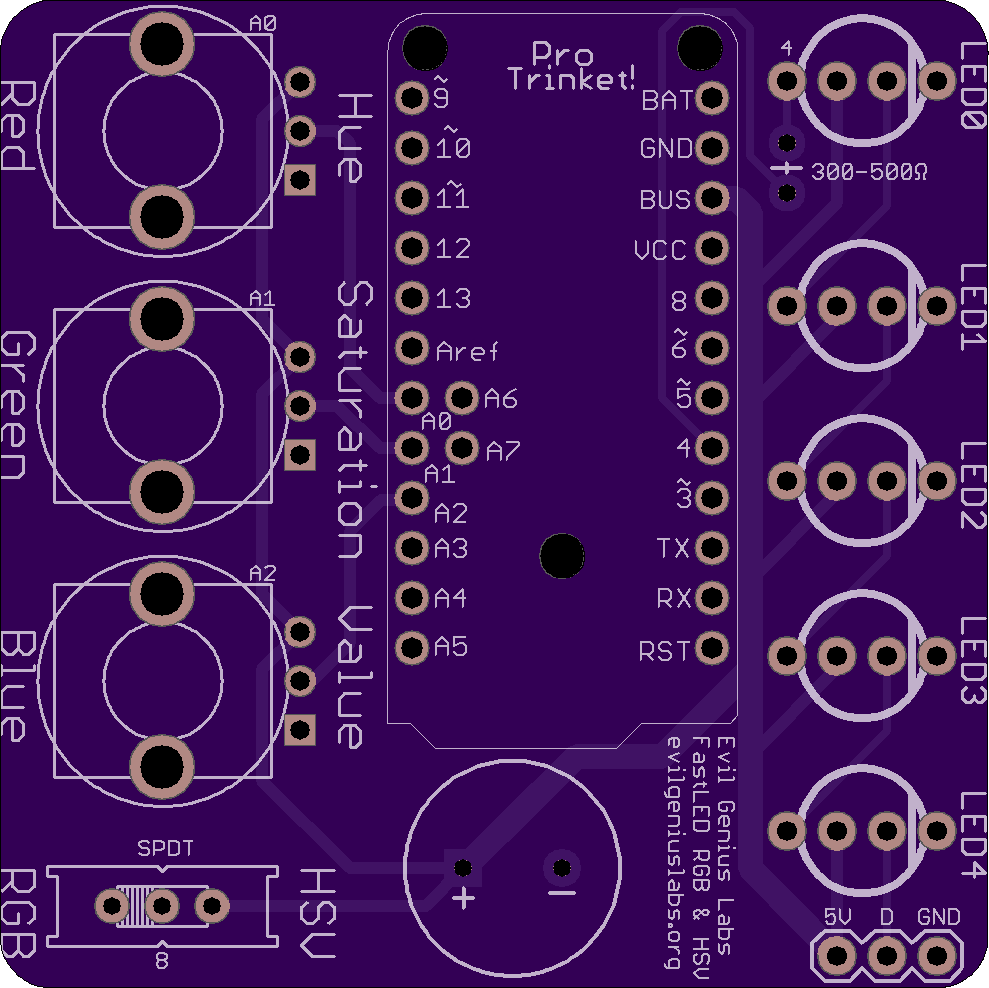
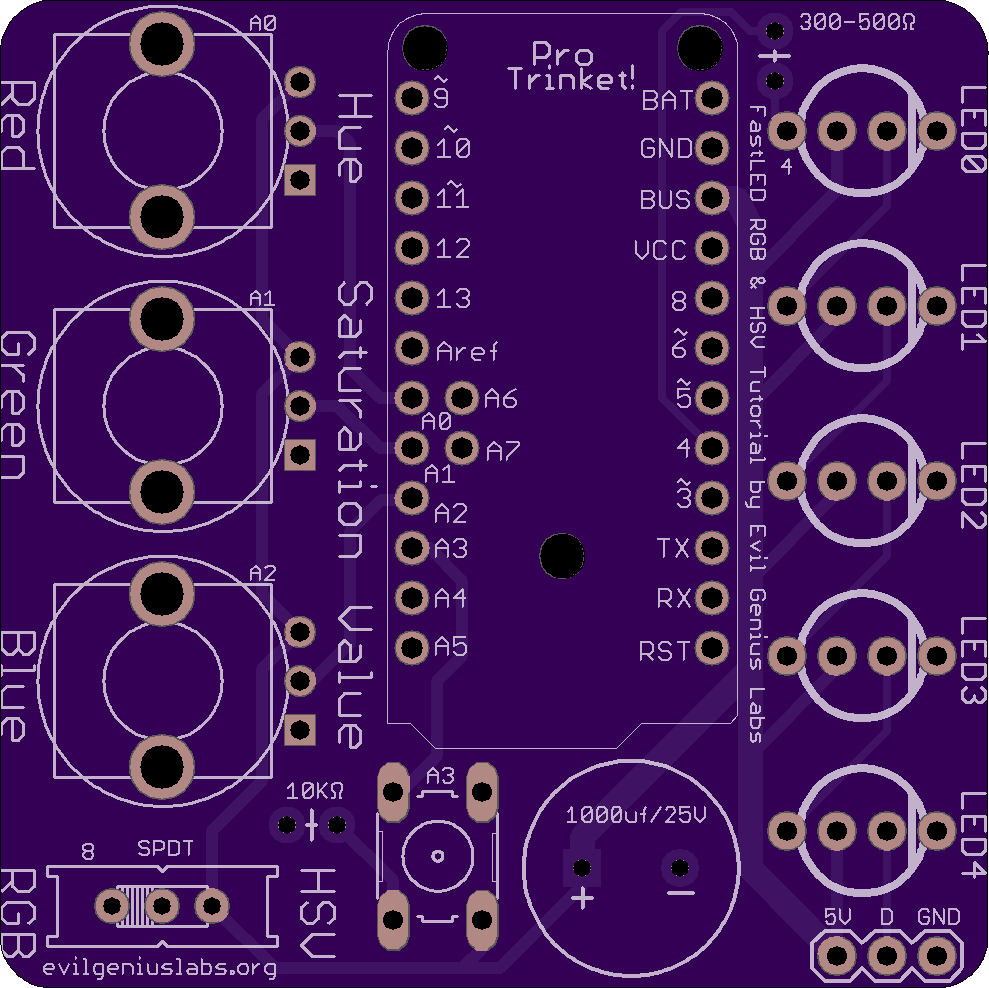
Updated PCB

diff --git a/_posts/2017-04-06-fastled-rgb-hsv-tutorial.md b/_posts/2017-04-06-fastled-rgb-hsv-tutorial.md
@@ -32,21 +32,49 @@ So, I set out to design a PCB that I can assemble ahead of time, and will hopefu
 * **Quality:**  May conflict with inexpensive, but there's no point building these cheaply if they don't last.
 * **Accessible:**  Easy to assemble, but so easy that nothing is learned by bulding one.  All components need to be through-hole.  No surface mount soldering, reflow oven, etc should be required.
 
-With these goals in mind, I created this PCB:
+With these goals in mind, I created this PCB.
+
+### Printed Circuit Board
 
 <img src="/images/fastled-rgb-hsv-tutorial/pcb-top.png" style="width:400px" class="img-responsive" />
 
 <img src="/images/fastled-rgb-hsv-tutorial/pcb-bottom.png" style="width:400px" class="img-responsive" />
 
-It's shared, but currently **completely untested**, on [OSH Park](https://oshpark.com/shared_projects/8wiyFFUf).
+It's shared, but currently **completely untested**, on [OSH Park](https://oshpark.com/shared_projects/0S10dNB4).
+
+I'll update once it is tested working.
 
 Here are the Eagle files ([schematic](/images/fastled-rgb-hsv-tutorial/FastLED RGB & HSV Tutorial.sch) & [board](/images/fastled-rgb-hsv-tutorial/FastLED RGB & HSV Tutorial.brd))
 
-The switch will change the potentiometers from controlling RGB to HSV.  The PCB includes the NeoPixel "best practices" capacitor and resistor, and pins to connect more LEDs (a strip, ring, etc).
+The switch will change the potentiometers from controlling RGB to HSV.  The PCB includes the NeoPixel "best practices" capacitor and resistor, and pins to connect more LEDs (a strip, ring, etc).  The tactile momentary push button could be used to change modes, from the tutorial to patterns, animations, etc.
 
 I used 5mm NeoPixels.  They are a bit cheaper and should be easier to solder than the breadboard-friendly NeoPixels, which would require headers to be soldered.
 
 The mounting holes from the Pro Trinket outline will allow the PCBs to be mounted on a board, so they don't fall off the table or "walk away".
+
+### Revisions
+
+**v1.1**
+* Added tactile momentary push button with pull down resistor.
+* Added some part and pin details to the bottom of the board.
+* Fixed inconsistent LED spacing.
+* Various other slight layout changes.
+* Thanks to Marc Miller for the suggestions!
+
+### Parts List
+
+| Name | Qty | Price | Total | Supplier |
+| --- | --- |  --- |  --- |  --- |
+| [PCB (3 included)](https://oshpark.com/shared_projects/0S10dNB4) | 1 | $19.50 | $19.50 | OSH Park
+| [Pro Trinket 5V](https://www.adafruit.com/product/2000) | 1 | $9.95 | $9.95 | Adafruit
+| [5mm NeoPixel 5 Pack](https://www.adafruit.com/products/1938) | 1 | $4.95 | $4.95 | Adafruit
+| [SPDT Slide Switch](https://www.adafruit.com/products/805) | 1 | $0.95 | $0.95 | Adafruit
+| [Tactile Button switch (6mm)](https://www.adafruit.com/products/367) | 1 | $0.25 | $0.25	| Adafruit
+| [10k Linear Pot](https://www.digikey.com/product-detail/en/bourns-inc/PTV09A-4020U-B103/PTV09A-4020U-B103-ND/3781130) | 3 | $0.83 | $2.49 | Digi-Key
+| [1F Capacitor](https://www.digikey.com/product-detail/en/panasonic-electronic-components/ECA-1EM102/P5156-ND/245015) | 1 | $0.59 | $0.59 | Digi-Key
+| [330 Ohm Resistor](https://www.digikey.com/product-detail/en/stackpole-electronics-inc/CF18JT330R/CF18JT330RCT-ND/2022730) | 1 | $0.10 | $0.10 | Digi-Key
+| [10K Ohm Resistor](https://www.digikey.com/product-detail/en/stackpole-electronics-inc/CF14JT10K0/CF14JT10K0CT-ND) | 1 | $0.10 | $0.10 | Digi-Key
+| **Total** | **9** |  | **$38.53** |  |  |
 
 More details and progress coming soon...
 
